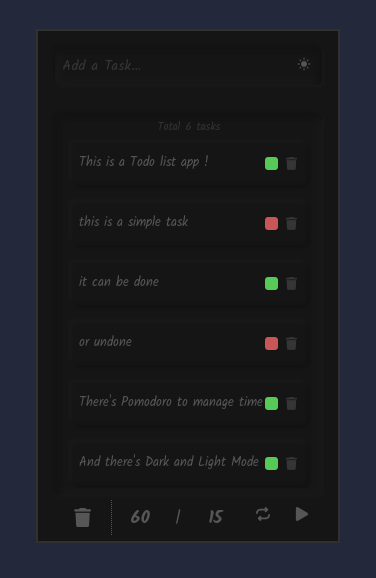
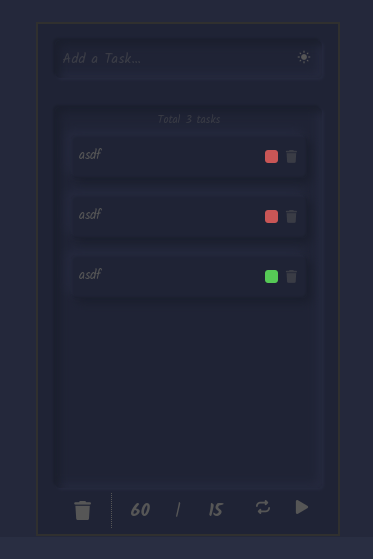
changing dark mode

diff --git a/src/Styles/Input.css b/src/Styles/Input.css
@@ -26,10 +26,10 @@
 }
 
 .input-field-dark {
-    box-shadow: inset -5px 5px 10px #121212,
-                inset 5px -5px 10px #181818,
-                -2px -2px 3px #121212,
-                2px 2px 3px #181818;
+        box-shadow: inset 5px 5px 10px #1a1e2d,
+                inset -5px -5px 10px #24283d,
+                 -2px -2px 3px #1a1e2d,
+                2px 2px 3px #24283d; 
 }
 
 .input-field::placeholder {

diff --git a/src/Styles/Tasks.css b/src/Styles/Tasks.css
@@ -19,10 +19,10 @@
 
 
 .tasks-container-dark {
-    box-shadow: inset 5px 5px 10px #121212,
-                inset -5px -5px 10px #181818,
-                -2px -2px 3px #121212,
-                2px 2px 3px #181818;
+    box-shadow: inset 5px 5px 10px #1a1e2d,
+            inset -5px -5px 10px #24283d,
+            -2px -2px 3px #1a1e2d,
+            2px 2px 3px #24283d; 
 }
 .total {
     position: absolute;

diff --git a/src/Styles/Task.css b/src/Styles/Task.css
@@ -21,10 +21,10 @@
 }
 
 .task-dark {
-    box-shadow:  3px 3px 3px #121212,
-    -3px -3px 3px #181818,
-    inset -1px -1px 1px #121212,
-    inset 1px 1px 1px #181818; 
+    box-shadow:  5px 5px 10px #1a1e2d,
+             -5px -5px 10px #24283d,
+            inset -1px -1px 1px #1a1e2d,
+            inset 1px 1px 1px #24283d; 
 }
 
 p {

diff --git a/src/styles.css b/src/styles.css
@@ -11,7 +11,7 @@
   -webkit-text-size-adjust: 100%;
   --front: #565656;
   --back: #e9e9e9;
-  --backdark: #151515;
+  --backdark: #1f2335;
 }
 
 * {
